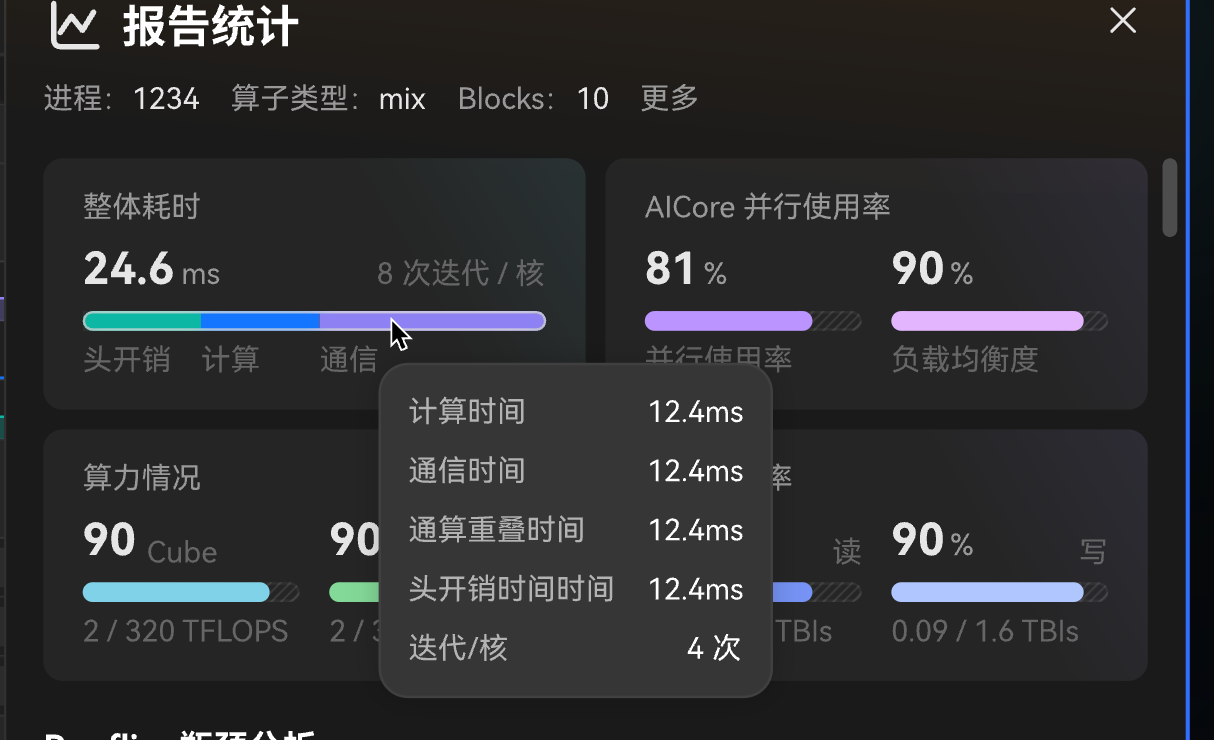
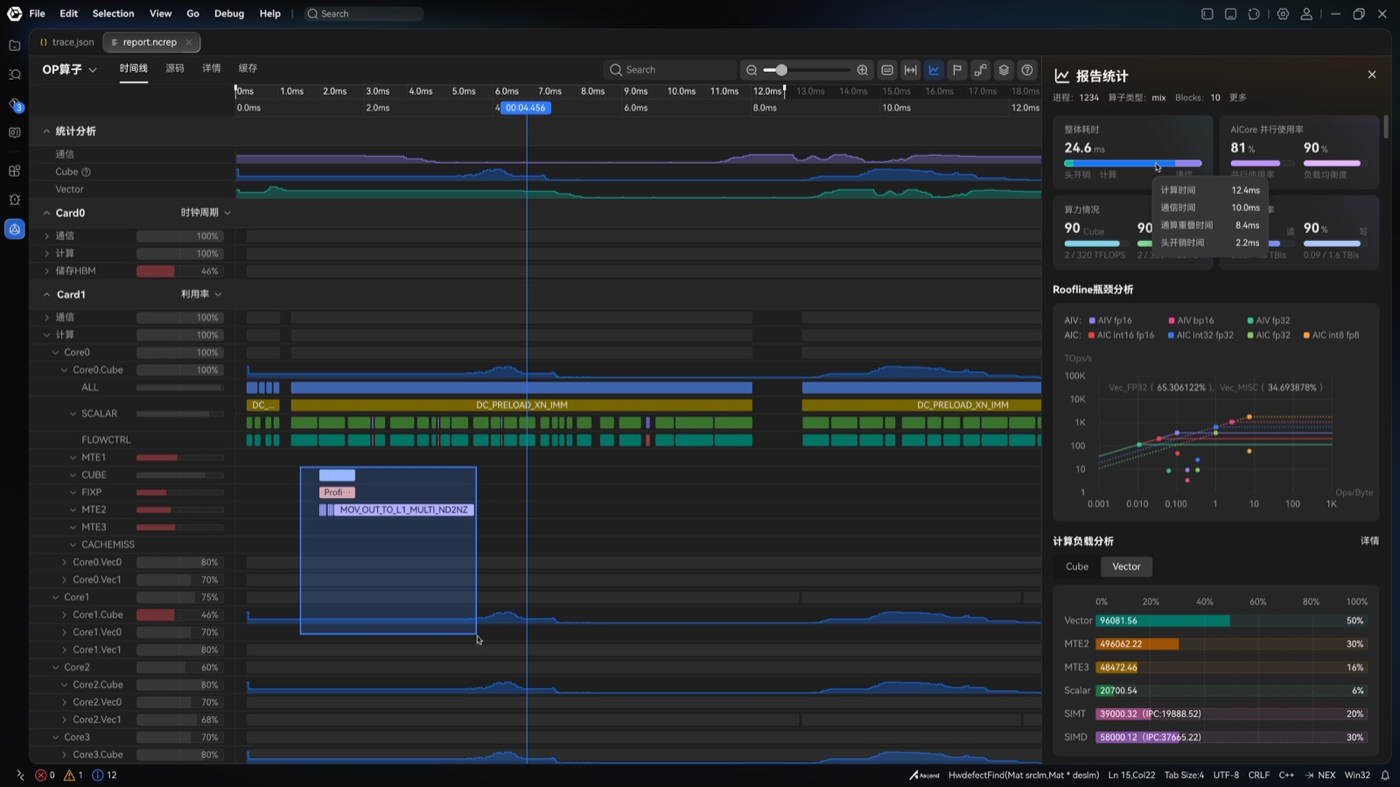
fix: align duration hover list with 2026-10-21 Product mock
Drop 迭代/核 from the breakdown tooltip and hide Blocks secondary while
the segmented bar is shown; refresh visual crops from the new sketch.

diff --git a/src/ui/StatsAside/StatsAside.vue b/src/ui/StatsAside/StatsAside.vue
@@ -622,11 +622,9 @@ function numericBlockDim(blockDim: string | number | undefined): number | undefi
 }
 
 /**
- * UI-32 secondary: `{blockDim} Blocks / {coreCount} 核` (DATA-1).
- * Fallback order: blocks/core → `blockDim` → `opName`. Each form carries the tooltip
- * that says which quantity the line reports (PR-STATS-040).
- * 2026-10-15 mock: secondary sits on the value row (right); bar returns only when
- * `durationBreakdown` is set (3-segment 头开销/计算/通信).
+ * UI-32 secondary: `{blockDim} Blocks / {coreCount} 核` (DATA-1) on the value row
+ * only when `durationBreakdown` is absent (2026-10-21 mock drops secondary once the
+ * segmented bar is shown). Fallback order: blocks/core → `blockDim` → `opName`.
  */
 const durationSecondary = computed<{ text: string; tip: CardTip } | null>(() => {
   const s = summary.value;
@@ -662,17 +660,6 @@ const durationSegments = computed(() => {
     { id: 'compute' as const, pct: (compute / total) * 100 },
     { id: 'communication' as const, pct: (communication / total) * 100 },
   ];
-});
-
-const breakdownIterations = computed(() => {
-  const b = durationBreakdown.value;
-  if (b?.iterationsPerCore != null && b.iterationsPerCore !== '') {
-    return String(b.iterationsPerCore);
-  }
-  const s = summary.value;
-  if (s?.mixBlockDim != null && s.mixBlockDim !== '') return String(s.mixBlockDim);
-  if (s?.blockDim != null && s.blockDim !== '') return String(s.blockDim);
-  return null;
 });
 
 function formatBreakdownTime(us: number): string {
@@ -1034,7 +1021,7 @@ const detailTestId = computed(() => {
               <span class="pr-card__unit">{{ durationParts.unit }}</span>
             </div>
             <div
-              v-if="durationSecondary"
+              v-if="durationSecondary && !durationSegments"
               class="pr-card__value-meta"
               data-testid="stats-duration-secondary"
               v-bind="tipBind(durationSecondary.tip, { focusable: true })"
@@ -1663,13 +1650,6 @@ const detailTestId = computed(() => {
         <div class="pr-duration-tooltip__row">
           <span>{{ t('durationOverheadTime', locale) }}</span>
           <span>{{ formatBreakdownTime(durationBreakdown.overheadUs) }}</span>
-        </div>
-        <div
-          v-if="breakdownIterations != null"
-          class="pr-duration-tooltip__row"
-        >
-          <span>{{ t('durationIterationsLabel', locale) }}</span>
-          <span>{{ t('durationIterationsCount', locale).replace('{n}', breakdownIterations) }}</span>
         </div>
       </div>
     </Teleport>

diff --git a/src/domain/types.ts b/src/domain/types.ts
@@ -86,17 +86,15 @@ export interface SwimlaneModel {
 /**
  * 整体耗时 segmented bar + hover breakdown (`StatsSummaryPanel/visual/duration-card.png`).
  * Bar widths = overhead / compute / communication share of their sum.
- * Overlap is tooltip-only. CSV field sources for the four times are still Product-open
- * (npu-compute PDF §11.2.4 maps only `Task Duration(us)` for the card total).
+ * Overlap is tooltip-only (2026-10-21 Product mock). CSV field sources for the four times
+ * are still Product-open (npu-compute PDF §11.2.4 maps only `Task Duration(us)` for the card total).
  */
 export interface DurationBreakdown {
   overheadUs: number;
   computeUs: number;
   communicationUs: number;
-  /** 通算重叠时间 — tooltip only. */
+  /** 通算重叠时间 — tooltip only; not a bar segment. */
   overlapUs?: number;
-  /** Tooltip 迭代/核; UI falls back to `mixBlockDim` / `blockDim` when unset. */
-  iterationsPerCore?: number | string;
 }
 
 export interface SummaryMetrics {
@@ -115,14 +113,12 @@ export interface SummaryMetrics {
   pid?: string;
   /** OpBasicInfo `Block Dim` — aside meta **Blocks** and duration secondary (DATA-1, UI-32). */
   blockDim?: string | number;
-  /**
-   * OpBasicInfo `Mix Block Dim` (Vector core count on MIX; NA when non-MIX).
-   * Breakdown tooltip 迭代/核 prefers this when set.
-   */
+  /** OpBasicInfo `Mix Block Dim` (Vector core count on MIX; NA when non-MIX). */
   mixBlockDim?: string | number;
   /**
-   * Optional 头开销/计算/通信 breakdown for the duration card bar + hover list.
-   * Omit until producer fields are confirmed; card keeps no bar (UI-32 fallback).
+   * Optional 头开销/计算/通信 breakdown for the duration card bar + hover list
+   * (计算时间 / 通信时间 / 通算重叠时间 / 头开销时间). Omit until producer fields are
+   * confirmed; card keeps no bar and may show Blocks/核 secondary (UI-32 fallback).
    */
   durationBreakdown?: DurationBreakdown;
   /** DATA-1: `HardwareInfo.jsonl` core count for `Op Type` (cube/vector/mix). */

diff --git a/src/ui/StatsAside/StatsAside.spec.ts b/src/ui/StatsAside/StatsAside.spec.ts
@@ -1004,13 +1004,12 @@ describe('StatsAside', () => {
           summary: {
             taskDurationUs: 24600,
             blockDim: 8,
-            mixBlockDim: 4,
             coreCount: 24,
             durationBreakdown: {
-              overheadUs: 4000,
+              overheadUs: 2200,
               computeUs: 12400,
-              communicationUs: 8200,
-              overlapUs: 12400,
+              communicationUs: 10000,
+              overlapUs: 8400,
             },
           },
         }),
@@ -1021,7 +1020,8 @@ describe('StatsAside', () => {
     expect(bd.find('[data-testid="stats-duration-seg-compute"]').exists()).toBe(true);
     expect(bd.find('[data-testid="stats-duration-seg-communication"]').exists()).toBe(true);
     expect(bd.get('[data-testid="stats-duration-legend"]').text()).toMatch(/头开销|Overhead/);
-    expect(bd.get('[data-testid="stats-duration-secondary"]').text()).toMatch(/Blocks/);
+    // 2026-10-21 mock: no value-row secondary once the segmented bar is shown.
+    expect(bd.find('[data-testid="stats-duration-secondary"]').exists()).toBe(false);
     await bd.get('[data-testid="stats-duration-bar"]').trigger('pointerenter');
     // Teleported to `body` (aside overflow would clip an in-card box).
     const tip = document.querySelector('[data-testid="stats-duration-tooltip"]');
@@ -1032,7 +1032,11 @@ describe('StatsAside', () => {
     expect(tipText).toMatch(/通算重叠|overlap/i);
     expect(tipText).toMatch(/头开销时间|Overhead time/);
     expect(tipText).not.toMatch(/时间时间/);
-    expect(tipText).toMatch(/4/);
+    expect(tipText).not.toMatch(/迭代|Iterations/);
+    expect(tipText).toMatch(/12\.40/);
+    expect(tipText).toMatch(/10\.00/);
+    expect(tipText).toMatch(/8\.40/);
+    expect(tipText).toMatch(/2\.20/);
   });
 
   it('PR-STATS-009c: duration rounds to 2 dp; tooltip keeps full value', async () => {

diff --git a/src/i18n/index.ts b/src/i18n/index.ts
@@ -58,8 +58,6 @@ const messages = {
     durationCommTime: '通信时间',
     durationOverlapTime: '通算重叠时间',
     durationOverheadTime: '头开销时间',
-    durationIterationsLabel: '迭代/核',
-    durationIterationsCount: '{n} 次',
     freq: '频率',
     noTimeline: '无时间线事件',
     overviewStats: '统计分析',
@@ -299,8 +297,6 @@ const messages = {
     durationCommTime: 'Communication time',
     durationOverlapTime: 'Comm-compute overlap',
     durationOverheadTime: 'Overhead time',
-    durationIterationsLabel: 'Iterations / core',
-    durationIterationsCount: '{n}×',
     freq: 'Freq',
     noTimeline: 'No timeline events',
     overviewStats: 'Statistical analysis',

diff --git a/src/ui/StatsAside/StatsAside.spec.md b/src/ui/StatsAside/StatsAside.spec.md
@@ -47,7 +47,7 @@ DATA-33a duration + DATA-8 bandwidth + DATA-33h compute. Card group renders when
 - **Column label** (side label) sits beside the score while the two fit on one line and drops to its own line under the score when they do not. **Every** column label — AICore 并行使用率 / 负载均衡度, compute Cube / Vector, BW 读 / 写 — opens the shared card tooltip (PR-STATS-041) carrying its full text while its column actually cuts it (`scrollWidth > clientWidth`), so a fully visible label is not echoed back at the user.
 - A column narrower than the label **itself** (one word wider than the column) ellipsizes it, against that tooltip. Truncation is never silent: an ellipsis always has a tooltip.
 
-**Duration card (整体耗时).** Localized label; large primary value from formatted `taskDurationUs` with the unit as a muted sibling (sketch `4.60` + `ms`). Display always uses **2 decimal places**; the value cell opens the shared card tooltip (PR-STATS-041) whose **first line is the exact value** (`准确值` / `Exact value`) — residue-stripped through `exactNumber()` — and whose **second line describes the metric** (整体耗时 / Task Duration) (PR-STATS-009c, PR-STATS-040). **Value-row secondary** (UI-32 / DATA-1), right of the value: `{blockDim} Blocks / {coreCount} 核` when both set; else `{blockDim} Blocks`; else `opName`; omit if neither — shared tooltip names which quantity (PR-STATS-036, PR-STATS-040). **Bar (UI-32, 2026-10-15 mock):** when `summary.durationBreakdown` is present, a 3-segment composition (头开销 / 计算 / 通信) sized by those µs shares, legend under the track, and a hover list teleported to `body` (aside overflow would clip an in-card box) — 计算时间 / 通信时间 / 通算重叠时间 / 头开销时间 / 迭代/核 (sketch typo `头开销时间时间` → **头开销时间**; iterations prefer breakdown → `mixBlockDim` → `blockDim`). When breakdown is absent, **no bar**. Visual: [`duration-card.png`](./StatsSummaryPanel/visual/duration-card.png) / [`duration-card-tooltip.png`](./StatsSummaryPanel/visual/duration-card-tooltip.png).
+**Duration card (整体耗时).** Localized label; large primary value from formatted `taskDurationUs` with the unit as a muted sibling (sketch `4.60` + `ms`). Display always uses **2 decimal places**; the value cell opens the shared card tooltip (PR-STATS-041) whose **first line is the exact value** (`准确值` / `Exact value`) — residue-stripped through `exactNumber()` — and whose **second line describes the metric** (整体耗时 / Task Duration) (PR-STATS-009c, PR-STATS-040). **Bar (UI-32, 2026-10-21 mock):** when `summary.durationBreakdown` is present, a 3-segment composition (头开销 / 计算 / 通信) sized by those µs shares, legend under the track, and a hover list teleported to `body` — **计算时间 / 通信时间 / 通算重叠时间 / 头开销时间** only (no 迭代/核; sketch typo `头开销时间时间` → **头开销时间**). Value-row Blocks/核 secondary is **omitted** while the bar is shown. When breakdown is absent: **no bar**; value-row secondary (UI-32 / DATA-1) `{blockDim} Blocks / {coreCount} 核` when both set; else `{blockDim} Blocks`; else `opName`; omit if neither. Visual: [`duration-card.png`](./StatsSummaryPanel/visual/duration-card.png) / [`duration-card-tooltip.png`](./StatsSummaryPanel/visual/duration-card-tooltip.png).
 
 **AICore 并行使用率 (DATA-9 / DATA-10).** Dual columns **并行使用率** | **负载均衡度** from `summary.parallelUtilization` / `parallelBalance` (fractions → `%`). Large score **with** `%` at **2 decimal places** (fraction fields keep sub-percent precision; unlike compute/BW integer `utilScore` ratios). Bar = same clamped score % of track. Clamp display score to **[0, 100]** so label and bar stay in lockstep when balance `1−σ/μ` goes negative or util exceeds 1; the value cell's shared tooltip leads with the unrounded `fraction×100` percent, float residue stripped at **4 significant digits** (PR-STATS-042) (`准确值` / `Exact value`), then **describes the metric** (并行使用率 / 负载均衡度 with its `summary.jsonl` field) (PR-STATS-011c, PR-STATS-040). Column label beside the score while the two fit on one line, else on its own line under the score; ellipsis + shared tooltip when the column is narrower than the label itself (same chrome as BW 读\|写; PR-STATS-036). Hide a column when its field is absent; title + `N/A` when duration is present but both absent. Omit the card when BW-only (no `taskDurationUs`). Do not bind `summary.avgCoreUtil`.
 
@@ -119,7 +119,7 @@ DATA-33a duration + DATA-8 bandwidth + DATA-33h compute. Card group renders when
 32. **PR-STATS-027** — Icon click emits open-cannbot with scope.
 33. **PR-STATS-028** — Aside shell paints a non-interactive orange top wash (`96px`, design linear-gradient) behind the header; title/meta/body stay above it.
 34. **PR-STATS-029** — Stacked body scrolls vertically only (`overflow-x: hidden; overflow-y: auto`); a vertical scrollbar gutter or DPR subpixel must not open a horizontal scrollbar.
-35. **PR-STATS-031** — Duration secondary `{blockDim} Blocks / {coreCount} 核` on the value row; segmented 头开销/计算/通信 bar only when `durationBreakdown` is set; no bar when absent.
+35. **PR-STATS-031** — Duration secondary `{blockDim} Blocks / {coreCount} 核` on the value row only when breakdown absent; segmented 头开销/计算/通信 bar + four-row hover when `durationBreakdown` is set; no bar when absent.
 36. **PR-STATS-032** — Compute card Cube|Vector score bar and TFLOPS subtitle.
 36b. **PR-STATS-032b** — Lone Vector / write columns use secondary bar hue (COLOR_TOKENS semantic, not index).
 37. **PR-STATS-033** — Header actions are cannbot and **详情** (that order). The topology **全屏** control lives in the diagram's own bar ([panel spec](./MemoryTopologyPanel/MemoryTopologyPanel.spec.md) zoom/fullscreen bar), so it appears exactly when the diagram does and disappears with it; the aside opens the bar with **showFullscreen**.
@@ -316,6 +316,7 @@ Sampled from [`v930/compute-load`](../../../docs/ui/source/v930/compute-load.jpe
 - **2026-09-14** — Block switcher options are every `block_id` in the report (compute ∪ memory, fixture order) instead of `PipeUtilization`-only: the aside switcher and the memory overlay switcher share one state, so a memory-only id picked in the overlay can no longer leave the main `<select>` blank (PR-STATS-014b). The `All` topology model is read straight from `report.memoryTopology` instead of re-deriving the adapter's `summary.jsonl` rule (one definition, no drift).
 - **2026-09-14** — Topology gate wording synced with the code: `showTopology` now asks whether the model is *drawable* (a plated edge value or the L2 plate, PR-VM-018), not merely whether a label exists. The default block pick uses the same predicate, so the snapshot no longer selects a block whose labels are all plated-less and then hides the diagram (PR-STATS-019 / PR-STATS-021).
 - **2026-09-11** — **详情** lists follow the block selector: with a picked id the CSV field list replaces the `summary.jsonl` category list and shows that block's row; a picked block with no data blanks its widget (BW card / roofline hidden, compute **N/A**, PIPE rows empty) instead of repeating the **All** aggregate (PR-STATS-014c / 014d, DATA-19 / DATA-29).
+- **2026-10-21** — 整体耗时: hover list is 计算/通信/通算重叠/头开销 times only (no 迭代/核); no value-row secondary while segmented bar shown (UI-32 / 2026-10-21 Product mock).
 - **2026-10-19** — 整体耗时: value-row secondary; segmented 头开销/计算/通信 bar + hover list when `durationBreakdown` present (UI-32 update, PR-STATS-009/031).
 - **2026-09-11** — BW 读\|写 = **sum** of the aic + aiv sides (`aicore_gm_read_bw` / `aicore_gm_write_bw`), peak = SOL 1600 shared by both sides (DATA-8); one block selector scopes every widget (`All` = `summary.jsonl`, picked id = block CSV) (DATA-19 / DATA-28 / DATA-29).
 - **2026-09-10** — Summary PIPE **block** select shares the `.pr-block-pill` chrome (`tokens.css`) with the memory overlay switcher — one definition instead of two copies, so they cannot drift. The v930 frames contain no summary block control — it is a DATA-33b addition with no design source.

diff --git a/docs/views/report-summary.md b/docs/views/report-summary.md
@@ -70,7 +70,7 @@ Code: `reportModelFromPayloads` / `summaryFrom*` / `computeCard*` / `bandwidthCa
 | 1 | 进程ID | `PID` / `Pid` | `OpBasicInfo.csv` | |
 | 2 | 算子类型 | `OpType` / `Op Type` | `OpBasicInfo.csv` | e.g. `vector`, `MIX` |
 | 3 | Blocks | `Block Dim` | `OpBasicInfo.csv` | |
-| 4 | 整体耗时 | `Task Duration（us）` / `Task Duration(us)` | `OpBasicInfo.csv` | **Confirmed** (npu-compute PDF §11.2.4). Shown as ms in mockup. Segment times (头开销/计算/通信/通算重叠) — **not** in that table; optional `durationBreakdown` until Product names columns |
+| 4 | 整体耗时 | `Task Duration（us）` / `Task Duration(us)` | `OpBasicInfo.csv` | **Confirmed** (npu-compute PDF §11.2.4). Shown as ms in mockup. Segment times (头开销/计算/通信 + tooltip 通算重叠) — **not** in that table; optional `durationBreakdown` until Product names columns |
 | 5 | 算力情况 | measured / peak TFLOPS | `ArithmeticUtilization.csv` + `HardwareInfo.jsonl` | **Interim DATA-33h** (DATA-2..4, UI-33). Sketch: **Cube \| Vector** columns |
 | 6 | 带宽利用率 | measured / peak read \| write BW | `summary.jsonl` `OpInfoSummary` (+ `category: Memory` fallback) | Sketch: one card **读 \| 写**. Measured read / write = the producer's summed sides `aicore_gm_read_bw` / `aicore_gm_write_bw`; peak SOL **1600 GB/s** shared by both sides; each direction's score = measured ÷ peak ([DATA-8](../context/decisions/DATA.md)). One block selector for the aggregation ([DATA-19](../context/decisions/DATA.md) / [DATA-28](../context/decisions/DATA.md) / [DATA-29](../context/decisions/DATA.md)). Source is **not** `Report.csv`. |
 | 7 | AICore 并行使用率 | `aicore_parallel_utilization` / `aicore_parallel_balance` | `summary.jsonl` | **DATA-9 / DATA-10**. Sketch: **并行使用率** \| **负载均衡度** |
@@ -85,7 +85,7 @@ Code: `reportModelFromPayloads` / `summaryFrom*` / `computeCard*` / `bandwidthCa
 | Meta row | **进程** / **算子类型** / **Blocks** / **更多** / CANNBot. `OpBasicInfo.csv` → `Pid` (also `PID`) / `Op Type` / `Block Dim`. Hide a segment when unset. Meta row stays visible on the report shell so **更多** is always reachable (UI-30, UI-31). Not 核数, aic频率, or NPU ARCH. `Current Freq` / `Rated Freq` stay off this shell (hardware overlay / OpBasicInfo dump). Overlay `chip_info` / `arch_info` are Device Info names, not a header ARCH value. |
 | 更多 | **Always** on the report shell (UI-30, UI-31). Opens hardware overlay and emits `open-hardware-details`. Render `HardwareDetailsPanel` when `hardwareDetails` is present (`HardwareInfo.jsonl` preferred; OpBasicInfo fallback per DATA-34a); else show **缺少 hardware info** / Missing hardware info. |
 | Grid | Sketch **2×2**: top 整体耗时 \| AICore 并行使用率; bottom 算力情况 \| 带宽利用率 |
-| 整体耗时 card | Large duration (always **2 decimal places**; shared tooltip = exact value then metric hint). Value-row secondary (UI-32 / DATA-1): `{blockDim} Blocks / {coreCount} 核` when both set; else `{blockDim} Blocks`; else `opName`; else omit. When `durationBreakdown` present: 3-segment bar (头开销 / 计算 / 通信) + legend + hover list (compute / comm / overlap / overhead times + 迭代/核) — [`duration-card.png`](../../src/ui/StatsAside/StatsSummaryPanel/visual/duration-card.png). When breakdown absent: **no bar**. No standalone op-type card. |
+| 整体耗时 card | Large duration (always **2 decimal places**; shared tooltip = exact value then metric hint). When `durationBreakdown` present: 3-segment bar (头开销 / 计算 / 通信) + legend + hover list (计算时间 / 通信时间 / 通算重叠时间 / 头开销时间) — no value-row secondary, no 迭代/核 ([`duration-card-tooltip.png`](../../src/ui/StatsAside/StatsSummaryPanel/visual/duration-card-tooltip.png)). When breakdown absent: **no bar**; value-row secondary (UI-32 / DATA-1) `{blockDim} Blocks / {coreCount} 核` when both set; else `{blockDim} Blocks`; else `opName`; else omit. No standalone op-type card. |
 | 算力情况 card | **Cube \| Vector** columns (UI-33): large score (no `%`; shared tooltip leads with the precise percent, then *measured throughput ÷ theoretical peak*), bar = `round(measured/peak×100)` % clamped to **[0, 100]** so an over-peak measurement reads `100` on the card while the tooltip keeps the true percent, subtitle `measured / peak` with `TFLOPS` on the next line whose shared tooltip leads with the raw values, then describes the ratio — **DATA-33h** (DATA-2..4). Omit side without both measured + peak; **N/A** placeholder when duration present but `computeCard` absent. |
 | 带宽利用率 card | **读 \| 写** columns: large score **with** `%`, clamped to **[0, 100]** on the same rule (tooltip keeps the true percent), bar = score% of track, `measured / peak` whose shared tooltip leads with the raw values, then describes the ratio — **DATA-8** / UI-34 GB/s (sketch TB/s). Same card chrome as 整体耗时. |
 | AICore 并行使用率 card | Dual **并行使用率** \| **负载均衡度** from `summary.parallelUtilization` / `parallelBalance` (**DATA-9 / DATA-10**): 2dp `%` scores, bars = clamped score % of track ([0, 100]), shared tooltip leads with the unrounded percent, then describes the metric (PR-STATS-040). Hide a column when its field is absent; **title + `N/A`** when duration present but both absent. |

diff --git a/specs/core/view-models.spec.md b/specs/core/view-models.spec.md
@@ -109,6 +109,7 @@ DATA-37 — Product-final roofline (axes / roof lines / tabs remain open; comput
 - **2026-09-11** — Block scope is one selector for every CSV-backed widget (`All` = `summary.jsonl` non-`NA` mean, a picked id = that block's CSV row), implemented in the adapter (PIPE, memory topology) and StatsAside (BW / compute / roofline) (DATA-19 / DATA-28 / DATA-29; PR-VM-019–022). BW cards sum the aic + aiv sides (`aicore_gm_read_bw` / `aicore_gm_write_bw`) instead of meaning them (DATA-8). Memory topology adds L0C → L1 / L0C → L2/GM (DATA-24 / DATA-25). `data/build_sample_rep.py` no longer renames `MemoryUB.csv` `*_scalar` → `*_gm`, so no fixture carries the columns the producer does not emit (DATA-22 / DATA-23).
 - **2026-09-10** — Memory topology UB→L2 / L2→UB read `Memory.csv` `aiv_ub_to_gm_bw` / `aiv_gm_to_ub_bw` (DATA-22 / DATA-23); the producer does not emit the `MemoryUB.csv` `*_gm` names (PR-VM-011). The pre-decision code paired those `*_gm` columns with the **opposite** direction (`ub-l2` → `aiv_ub_read_bw_gm`, `l2-ub` → `aiv_ub_write_bw_gm`); because both read `0.0`, the product sample's two plated edges rendered `0.00 GB/s` (now `7.83` / `15.66 GB/s`). On the classic `out.rep` the `Memory.csv` values (`8.38` / `16.76 GB/s`) were already correct.
 - **2026-09-07** — L2 `peakPct` on topology nodes (DATA-20 / DATA-21, PR-VM-012b).
+- **2026-10-21** — `durationBreakdown` hover list is compute / comm / overlap / overhead times only (no iterations field); adapters still leave breakdown unset until Product names columns (UI-32).
 - **2026-10-19** — Optional `summary.mixBlockDim` (`Mix Block Dim`) and `summary.durationBreakdown` for the 整体耗时 segmented bar (UI-32); adapters leave breakdown unset until Product names columns.
 - **2026-09-04** — NPU-Compute: `summary.jsonl` is the canonical source — `OpInfoSummary` derived fields (compute/BW/parallel utilization), summary-first detail categories, `PipeTrace.json` µs timeline, spaced HardwareInfo key normalization, peak 1600 GB/s (SOL), compute score = measured/theoretical (DATA-2, DATA-3, DATA-5, DATA-9, DATA-33, UI-32).
 - **2026-09-01** — `summary.coreCount` from `HardwareInfo.jsonl` by op type for duration secondary (DATA-1, UI-32, PR-VM-014).

diff --git a/docs/context/decisions/UI.md b/docs/context/decisions/UI.md
@@ -30,11 +30,11 @@ Format and statuses: [README.md](README.md).
 
 ## UI-32 (was: HQ 32)
 
-- **Resolved:** 2026-09-04 (updated 2026-10-19; first answered 2026-09-01)
+- **Resolved:** 2026-09-04 (updated 2026-10-21; first answered 2026-09-01)
 - **Question:** The duration bar — decoration or a real percent? Of what?
-- **Decision:** Secondary text = `{blockDim} Blocks / {coreCount} 核` (core count per DATA-1); if only `blockDim`, `{blockDim} Blocks`; else `opName` — shown on the **value row** (right of the duration). **Bar:** when `summary.durationBreakdown` is present, show a **3-segment composition** (头开销 / 计算 / 通信) sized by those times’ share of their sum, with legend + hover list (计算时间 / 通信时间 / 通算重叠时间 / 头开销时间 / 迭代/核). When breakdown is absent, **no bar**. Segment CSV fields remain Product-open (PDF §11.2.4 maps only `Task Duration(us)` for the card total).
+- **Decision:** **Bar:** when `summary.durationBreakdown` is present, show a **3-segment composition** (头开销 / 计算 / 通信) sized by those times’ share of their sum, with legend + hover list (**计算时间 / 通信时间 / 通算重叠时间 / 头开销时间** only — no 迭代/核). Value row shows the duration alone (no Blocks secondary) while the bar is shown. When breakdown is absent: **no bar**; value-row secondary = `{blockDim} Blocks / {coreCount} 核` (DATA-1), else `{blockDim} Blocks`, else `opName`. Segment CSV fields remain Product-open (PDF §11.2.4 maps only `Task Duration(us)` for the card total).
 - **Specs:** [report-summary](../../views/report-summary.md), [StatsAside](../../../src/ui/StatsAside/StatsAside.spec.md), [view-models](../../../specs/core/view-models.spec.md)
-- **Source:** NPU-Compute.md (2026-09-04) for secondary; 2026-10-15 Product mock (`duration-card.png`) for segmented bar + tooltip.
+- **Source:** NPU-Compute.md (2026-09-04) for Blocks secondary fallback; 2026-10-21 Product mock (`duration-card-tooltip.png`) for segmented bar + four-row hover list.
 
 ---
 

diff --git a/docs/context/decisions/interim/DATA.md b/docs/context/decisions/interim/DATA.md
@@ -64,7 +64,7 @@ Meta-rules, MVP scope checklist, and related specs: [README.md](README.md).
 
 **Status:** `interim` — **SUPERSEDED** 2026-09-04
 **Question:** [DATA-33](../DATA.md)
-**Interim:** ~~Bar = `min(100%, Block Dim / core_count × 100%)`.~~ ~~Product (NPU-Compute / UI-32): bar removed.~~ **UI-32 (2026-10-19):** secondary `{blockDim} Blocks / {coreCount} 核` on the value row; **segmented** 头开销/计算/通信 bar when `durationBreakdown` is set; no bar when absent. Core count still DATA-1.
+**Interim:** ~~Bar = `min(100%, Block Dim / core_count × 100%)`.~~ ~~Product (NPU-Compute / UI-32): bar removed.~~ **UI-32 (2026-10-21):** **segmented** 头开销/计算/通信 bar + four-row hover (计算/通信/通算重叠/头开销 times) when `durationBreakdown` is set (no 迭代/核; no value-row secondary while bar shown); Blocks/核 secondary only when breakdown absent. Core count still DATA-1.
 **Implement / test as:** `PR-STATS-009`–`011`, `PR-STATS-031`
 **Superseded when:** Product names overhead / compute / comm / overlap CSV columns.
 
